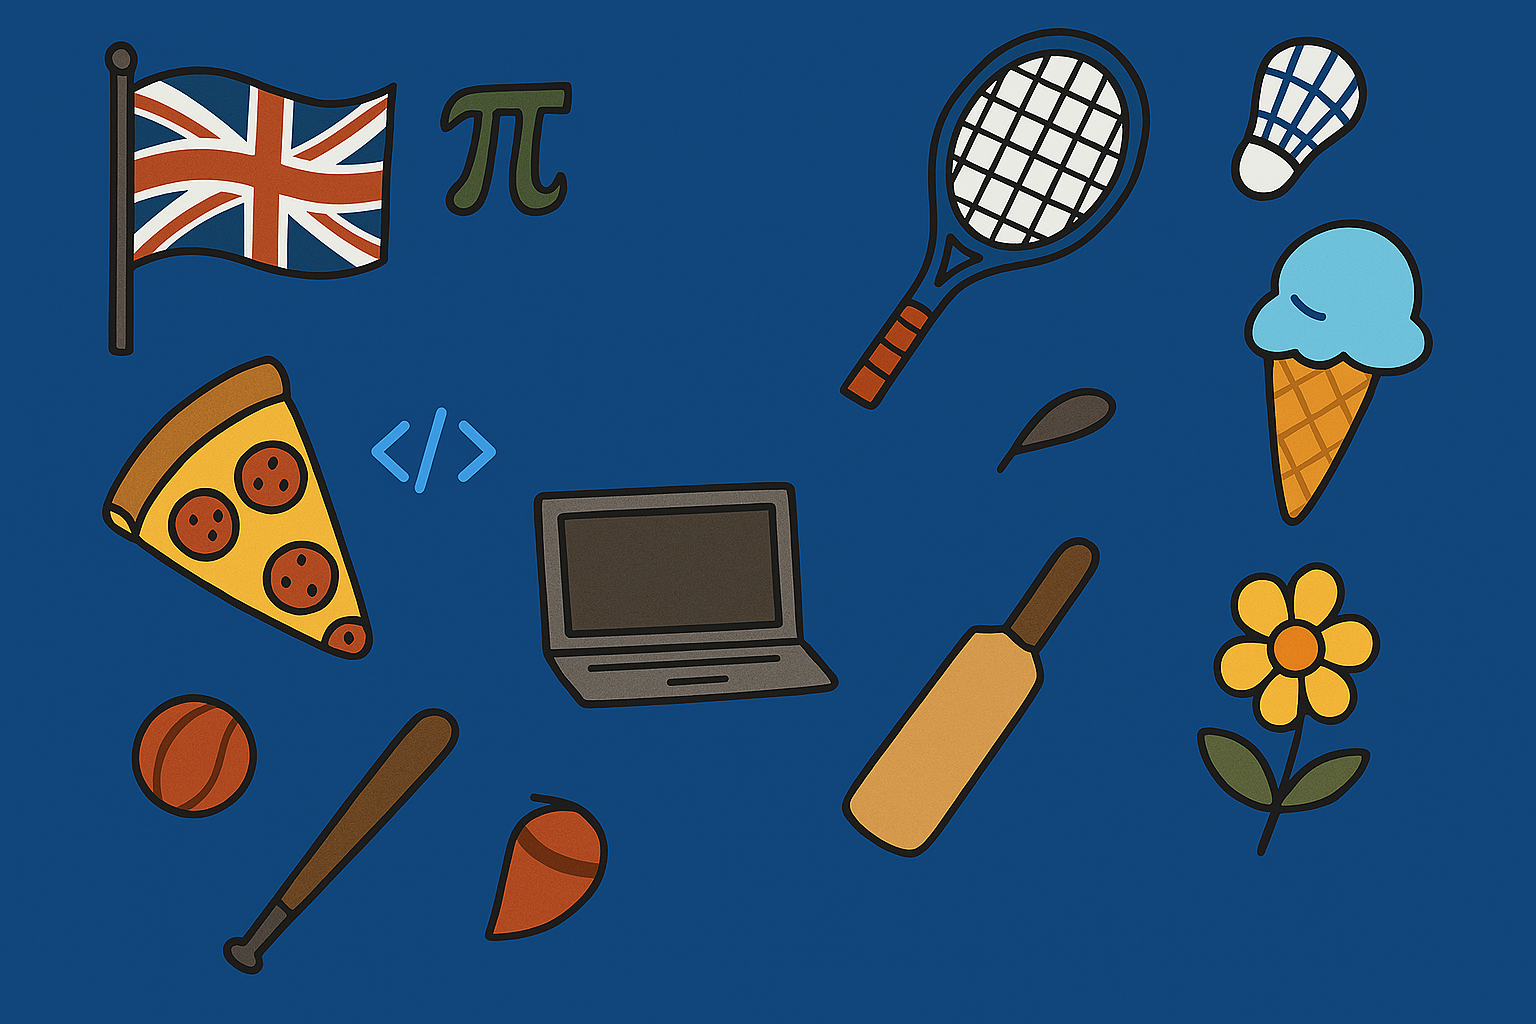
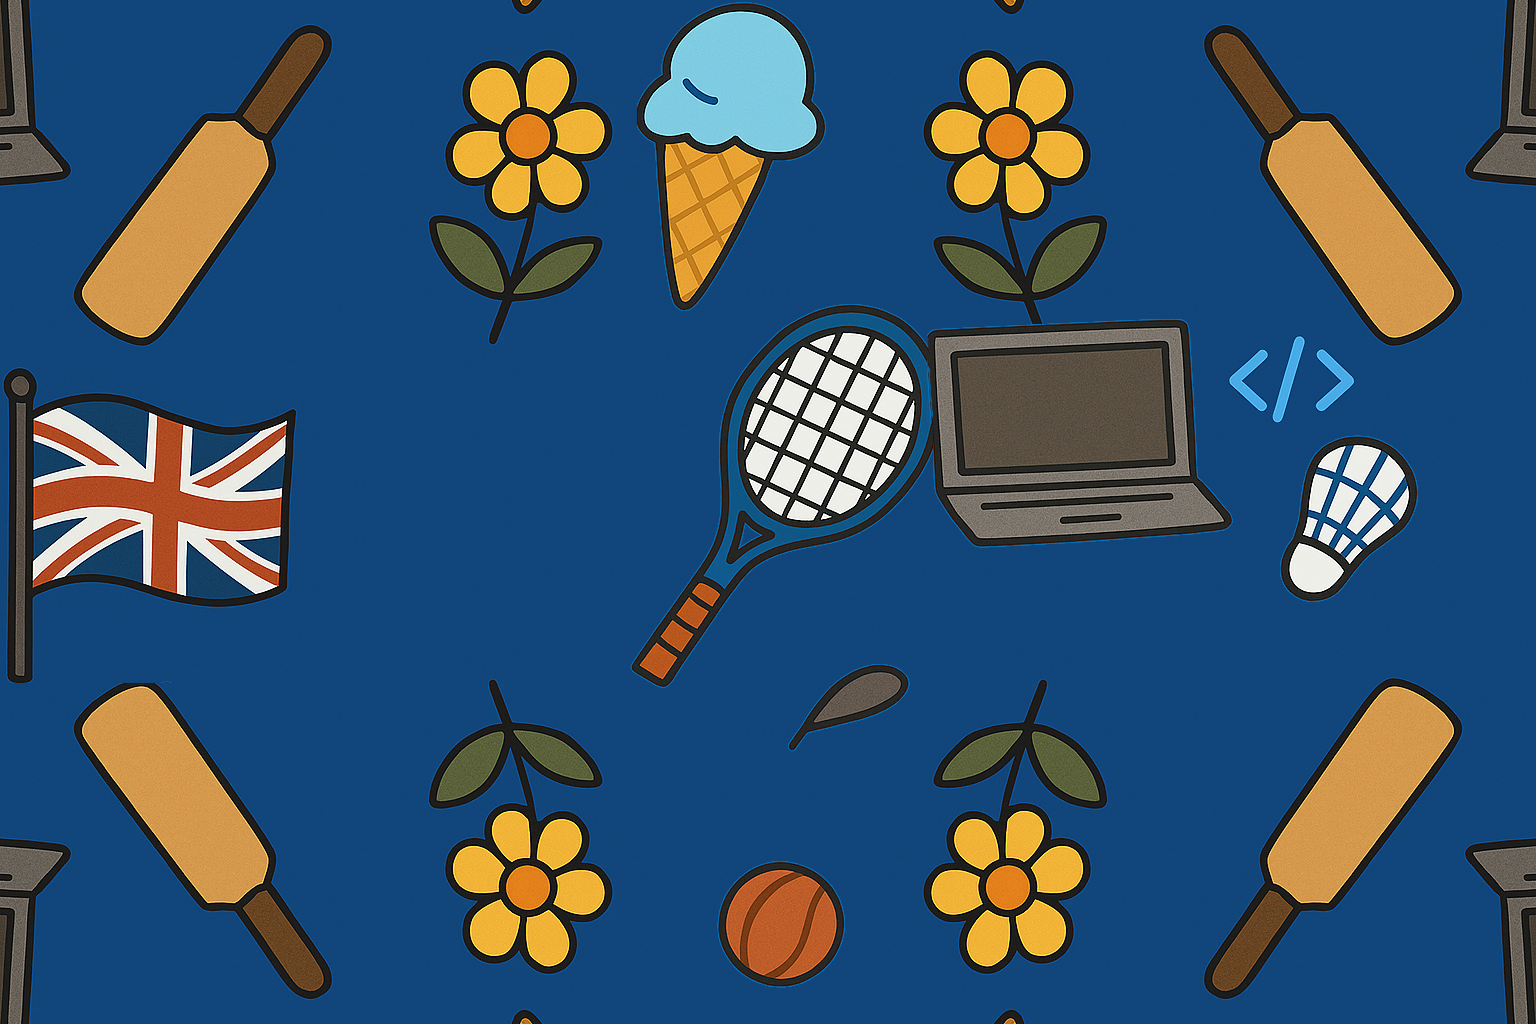
updated background and style

diff --git a/index.html b/index.html
@@ -5,9 +5,9 @@
   <style>
     body {
       background-image: url('https://nitblitz.github.io/images/background.png');
-      background-size: cover;
-      background-repeat: no-repeat;
-      background-position: center;
+      background-repeat: repeat;
+      background-size: auto;
+      background-position: top left;
     }
   </style>
 </head>
